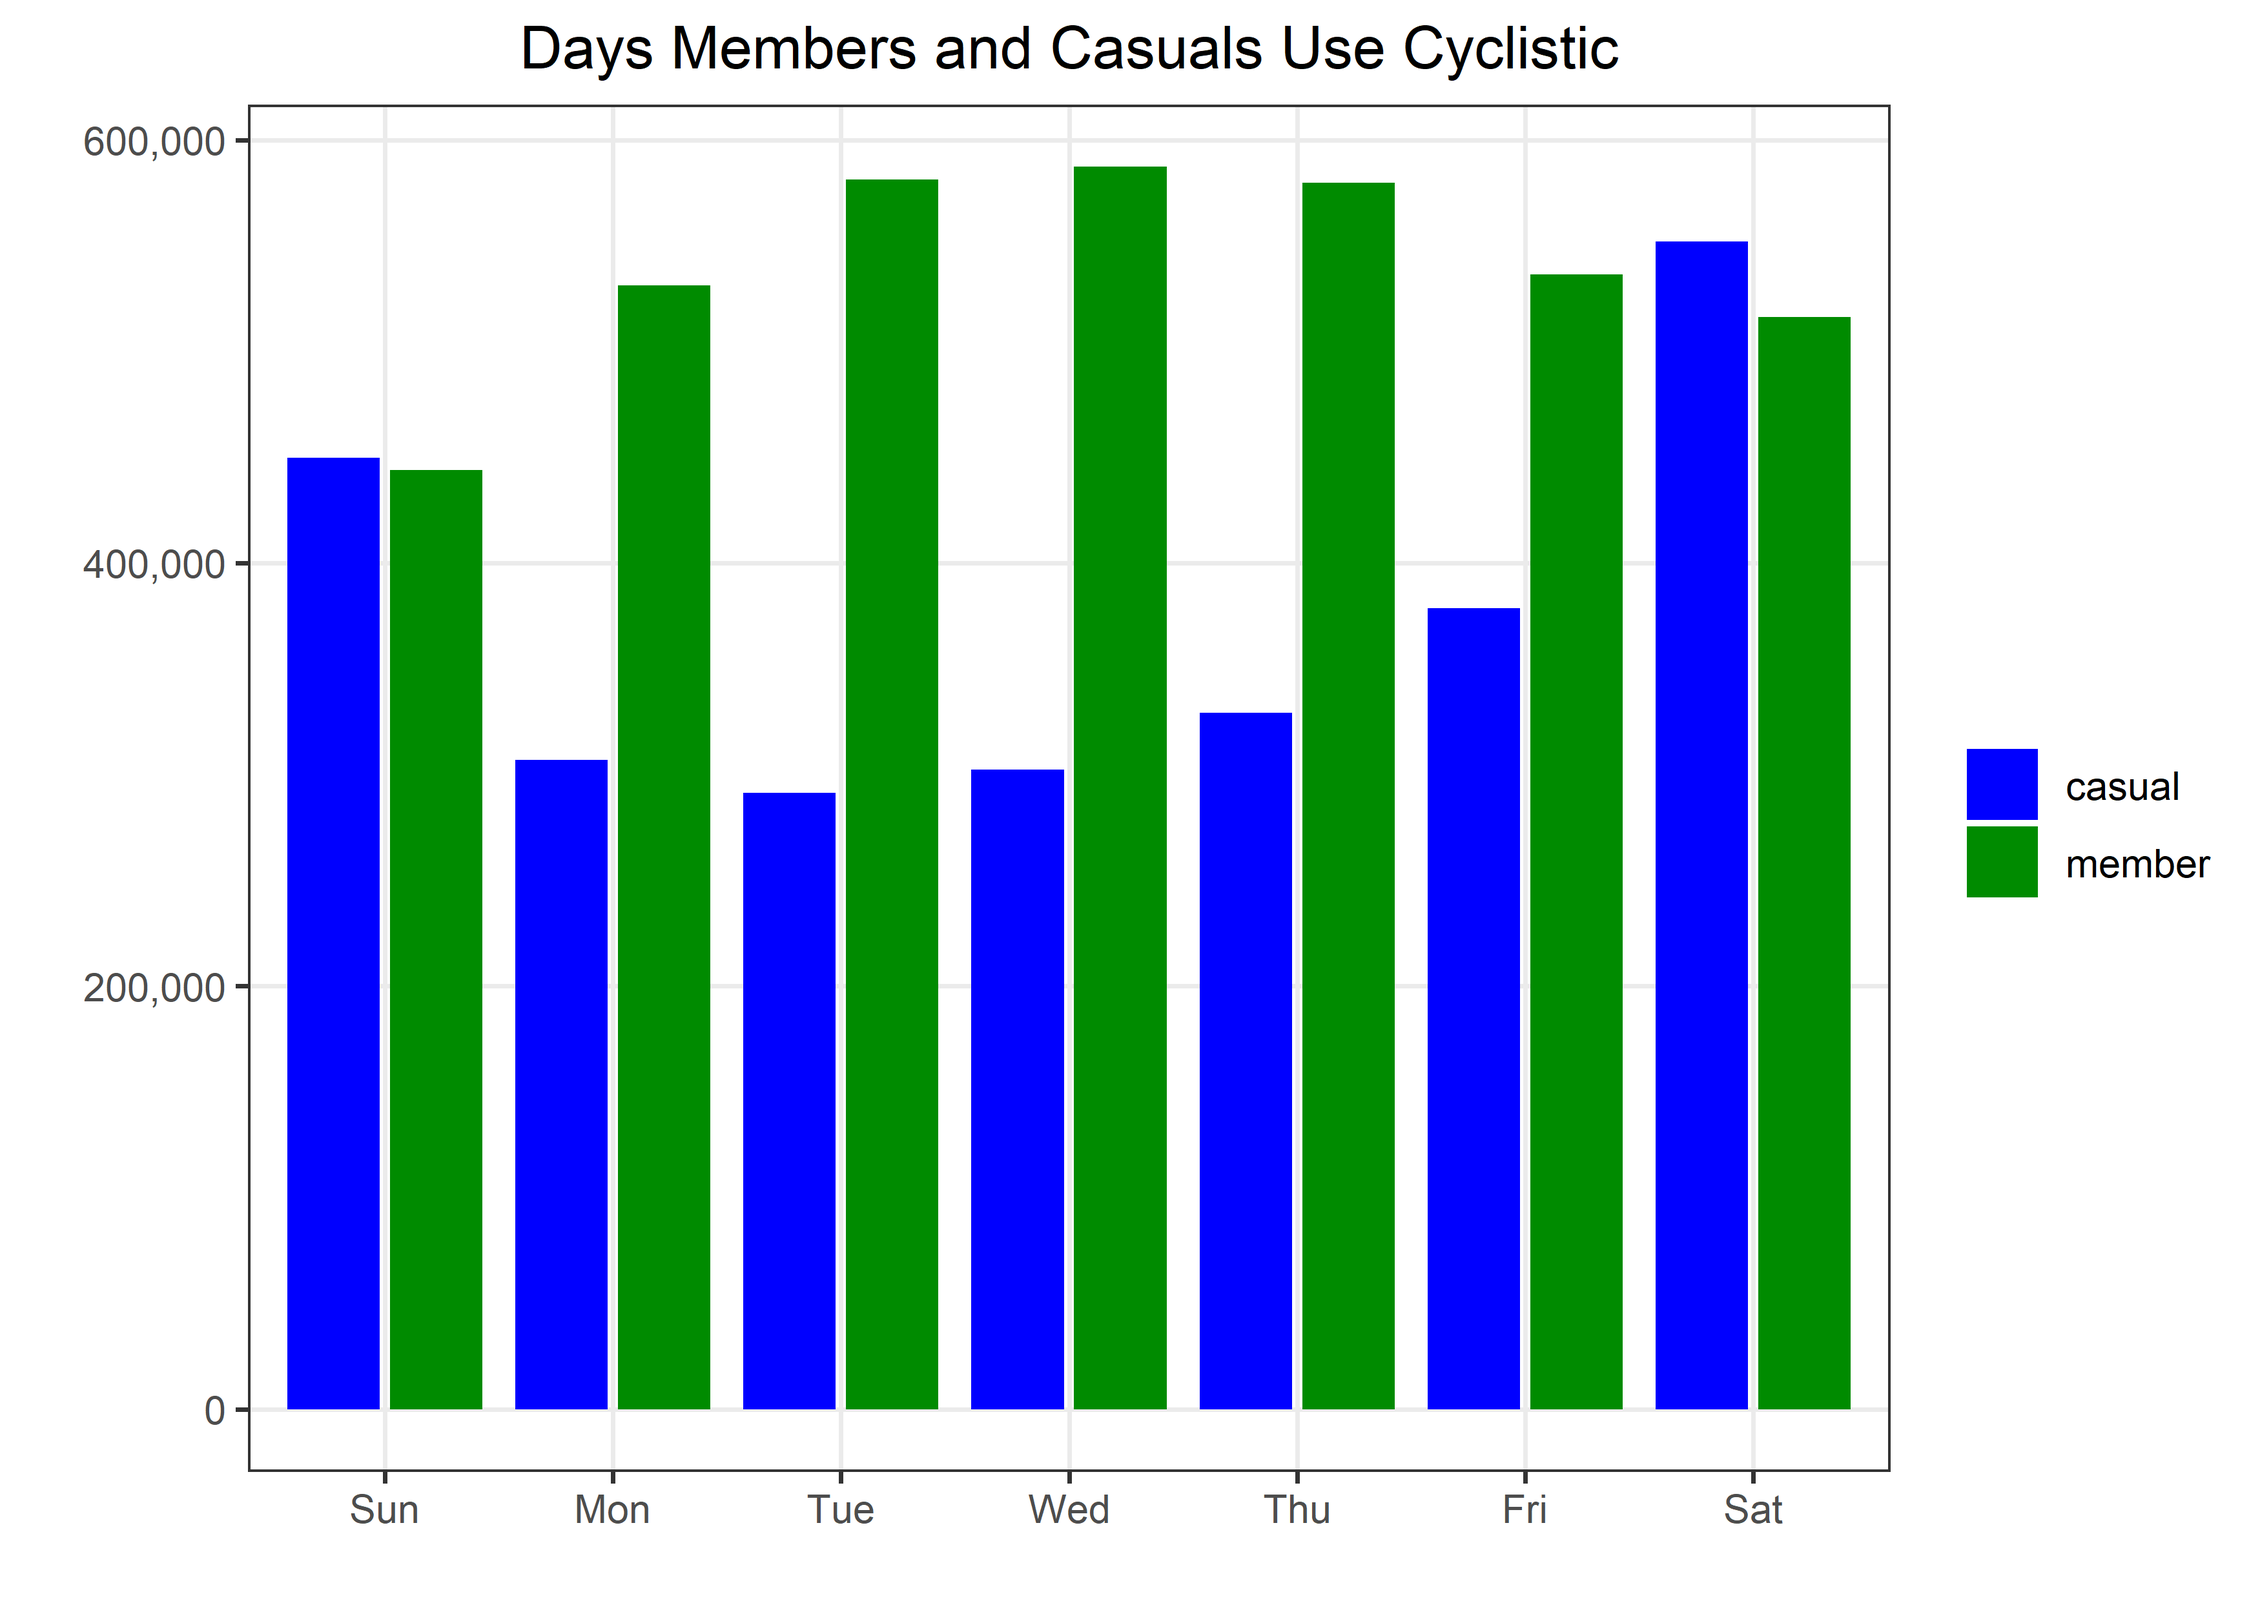
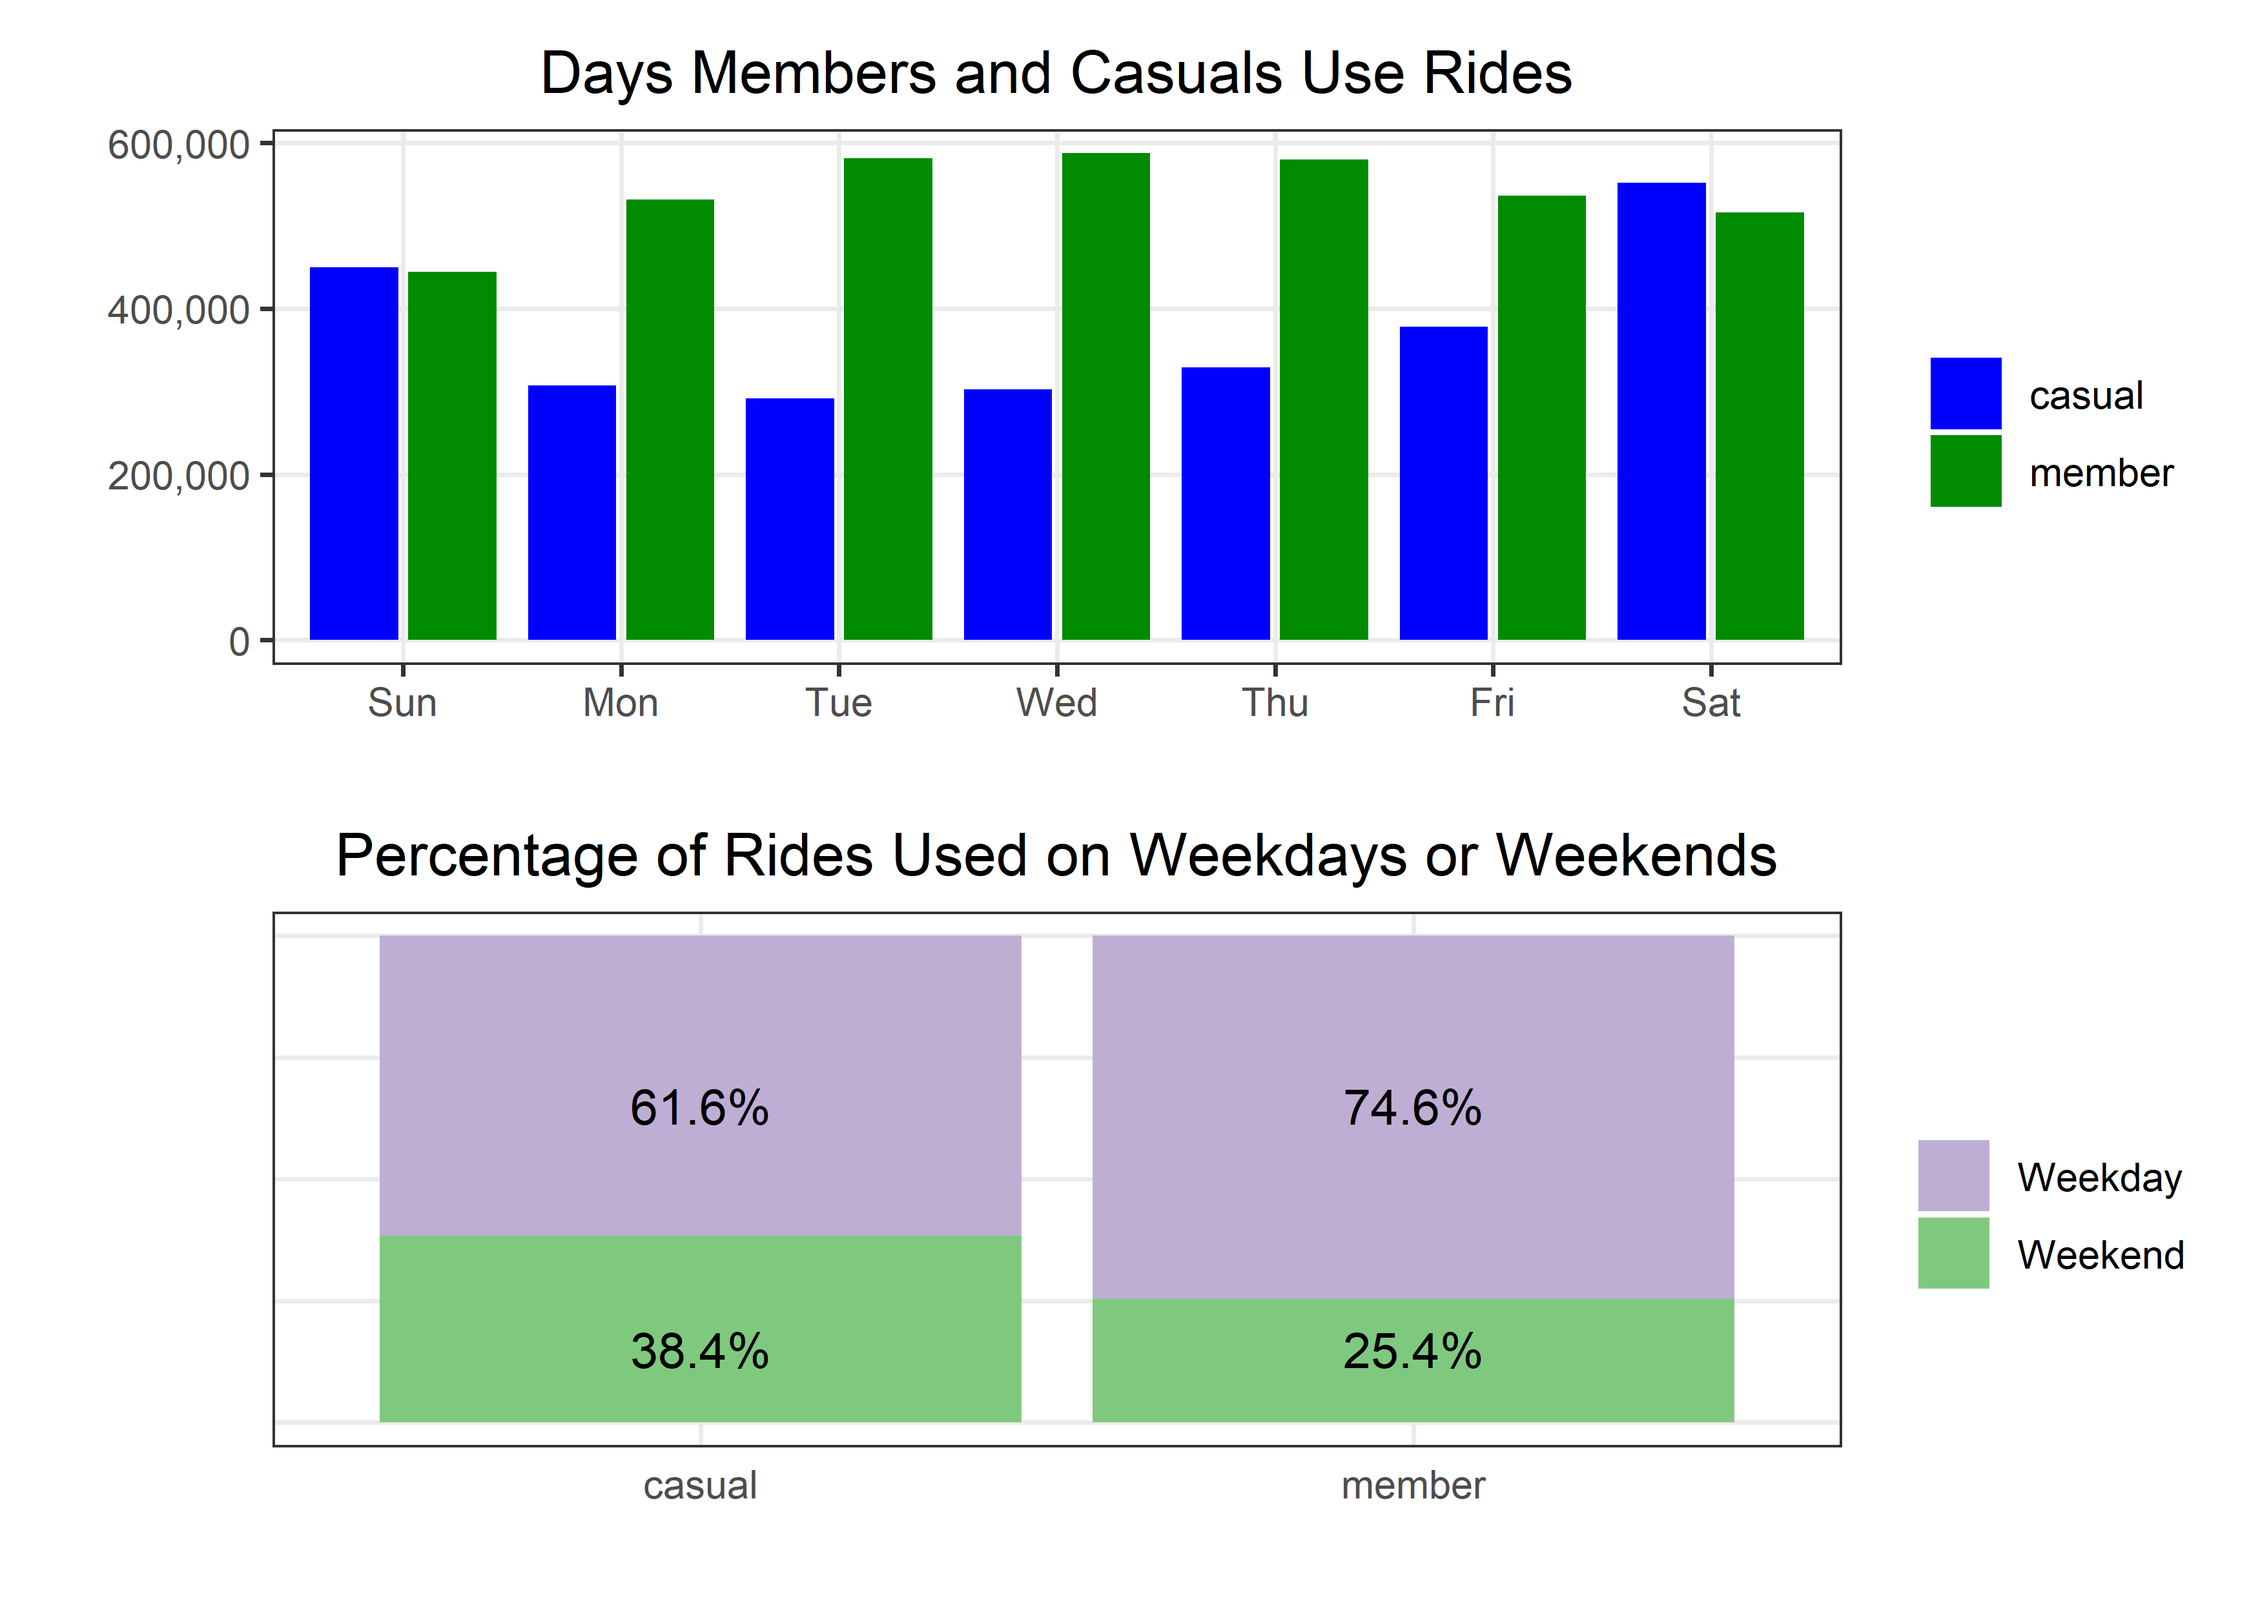
added multiple columns and improved plots. Added summary

diff --git a/Coursera Case Study/Bikes.md b/Coursera Case Study/Bikes.md
@@ -3,14 +3,34 @@ Coursera Case Study: Bikes
 Matthew
 2022-11-10
 
+-   <a href="#google-analytics-case-study-cyclistic"
+    id="toc-google-analytics-case-study-cyclistic">Google Analytics Case
+    Study: Cyclistic</a>
 -   <a href="#data-validation" id="toc-data-validation">Data Validation</a>
--   <a href="#eda" id="toc-eda">EDA</a>
+-   <a href="#exploratory-data-analysis"
+    id="toc-exploratory-data-analysis">Exploratory Data Analysis</a>
     -   <a href="#casuals-vs-members" id="toc-casuals-vs-members">Casuals vs
         Members</a>
+        -   <a href="#ride-duration-distributions"
+            id="toc-ride-duration-distributions">Ride Duration Distributions</a>
+        -   <a href="#weekdays-vs-weekends" id="toc-weekdays-vs-weekends">Weekdays
+            vs Weekends</a>
+        -   <a href="#type-of-bikes-used" id="toc-type-of-bikes-used">Type of Bikes
+            Used</a>
+        -   <a href="#popular-start-stations"
+            id="toc-popular-start-stations">Popular Start Stations</a>
+
+# Google Analytics Case Study: Cyclistic
+
+The purpose of this case study is the dive into the data and find the
+differences between members and casuals, with the hopes of converting
+casuals to members. Members are individuals that by an annual
+subscription service, while casuals are individuals that buy single ride
+passes.
 
 Multiple data sets (13) were downloaded from a link provided by Coursera
-and then was merged into one csv, which was subsequently read into using
-the code chunk below. The first chunk uses a for-loop to iterate the
+and then was merged into one csv, which was subsequently read using the
+code chunk below. The first chunk uses a for-loop to iterate the
 *read_csv* (read data files) and *rbind* (combine data rowwise)
 functions till all data files are read; which is then saved as a csv of
 its own. Now the csv can be read only once using the following code
@@ -42,17 +62,17 @@ bikes <- read_csv("D:/Downloads/Case Study/Full Data/bikes.csv")
     ## i Use `spec()` to retrieve the full column specification for this data.
     ## i Specify the column types or set `show_col_types = FALSE` to quiet this message.
 
-``` r
-s_bikes <- bikes %>% sample_n(500000)  # sample data set only for the purpose of quicker computations during analysis
-```
-
 Create columns that are the *length* of bike ride (in seconds) and
 *day_of_week* (1 = Sunday, 7 = Saturday).
 
 ``` r
-bikes$length <- difftime(bikes$ended_at, bikes$started_at)
+bikes$length <- difftime(bikes$ended_at, bikes$started_at, unit = "mins")
 bikes$day_of_week <- wday(bikes$started_at)
 bikes$day_label <- wday(bikes$started_at, label = TRUE)
+```
+
+``` r
+s_bikes <- bikes %>% sample_n(500000)  # sample data set only for the purpose of quicker computations during analysis
 ```
 
 # Data Validation
@@ -95,9 +115,10 @@ bikes %>%
 
 ``` r
 bikes$length <- abs(bikes$length)
+s_bikes$length <- abs(s_bikes$length)
 ```
 
-# EDA
+# Exploratory Data Analysis
 
 ``` r
 skimr::skim_without_charts(bikes)
@@ -134,9 +155,9 @@ Data summary
 
 **Variable type: difftime**
 
-| skim_variable | n_missing | complete_rate | min    | max          | median   | n_unique |
-|:--------------|----------:|--------------:|:-------|:-------------|:---------|---------:|
-| length        |         0 |             1 | 0 secs | 2483235 secs | 621 secs |    23350 |
+| skim_variable | n_missing | complete_rate | min    | max           | median     | n_unique |
+|:--------------|----------:|--------------:|:-------|:--------------|:-----------|---------:|
+| length        |         0 |             1 | 0 mins | 41387.25 mins | 10.35 mins |    23350 |
 
 **Variable type: factor**
 
@@ -161,73 +182,89 @@ Data summary
 | started_at    |         0 |             1 | 2021-10-01 00:00:09 | 2022-10-31 23:59:33 | 2022-06-18 23:50:58 |  5349251 |
 | ended_at      |         0 |             1 | 2021-10-01 00:03:11 | 2022-11-07 04:53:58 | 2022-06-19 00:17:08 |  5359703 |
 
-The task of this case study is to identify the difference between casual
-riders and members, with the goal of converting casuals to members.
-Casual riders are individuals that purchase single rides or full day
-passes, while members are individuals that purchase an annual
-subscription.
-
 ## Casuals vs Members
 
-There are more than 1 million more members than casuals.
+**Summary**
+
+-   There are *3.77* million rides by members and *2.61* million rides
+    by casuals, accounting for *59.1%* and *40.9%* of the data,
+    respectively.
+-   Members and casuals have approximately equal duration distributions,
+    with casuals having a slightly longer rides.
+-   Members tend to use rides during the weekday while casuals tend to
+    use rides during the weekend.
+-   Casuals disproportionately prefer specific bike stations.
 
 ``` r
 bikes %>% 
-  count(member_casual, sort = TRUE)
+  count(member_casual, sort = TRUE) %>% 
+  mutate(percent = n/sum(n)*100)
 ```
 
-    ## # A tibble: 2 x 2
-    ##   member_casual       n
-    ##   <chr>           <int>
-    ## 1 member        3776645
-    ## 2 casual        2610275
+    ## # A tibble: 2 x 3
+    ##   member_casual       n percent
+    ##   <chr>           <int>   <dbl>
+    ## 1 member        3776645    59.1
+    ## 2 casual        2610275    40.9
 
-Both members and casuals have the same distribution in their ridership
-duration.
+### Ride Duration Distributions
 
 ``` r
 (bikes %>% 
-  ggplot(aes(as.numeric(length/60))) + geom_histogram() + scale_x_log10(labels = comma_format()) +
-  facet_wrap(~member_casual) +
-  labs(y = "", x = "")) /
+  ggplot(aes(as.numeric(length), member_casual, fill = member_casual)) + 
+  geom_boxplot() +
+  scale_x_log10(label = comma_format()) + labs(y = "", x = "", fill = "") + scale_fill_manual(values = c("blue", "green4")))/
 (bikes %>% 
-  ggplot(aes(as.numeric(length/60))) + geom_density() + scale_x_log10(labels = comma_format()) +
-  facet_wrap(~member_casual) +
-  labs(y = "", x = "")) +
-  plot_annotation(title = "Duration Distribution of Rides")
-```
-
-    ## `stat_bin()` using `bins = 30`. Pick better value with `binwidth`.
-
-![](Bikes_files/figure-gfm/unnamed-chunk-8-1.png)<!-- -->
-
-``` r
-bikes %>% 
-  ggplot(aes(as.numeric(length/60), member_casual)) + geom_boxplot() +
-  scale_x_log10()
+   ggplot(aes(as.numeric(length), fill = member_casual)) + 
+   geom_density(alpha = 0.5) + theme(legend.position = "none") +
+   scale_x_log10(label = comma_format()) + labs(y = "", x = "") + scale_fill_manual(values = c("blue", "green4"))) +
+  plot_annotation(title = "Ride Duration Distributions") + plot_layout(guides = "collect")
 ```
 
 ![](Bikes_files/figure-gfm/unnamed-chunk-9-1.png)<!-- -->
 
+### Weekdays vs Weekends
+
+Members and casuals appear to use rides for different reasons.
+
+-   Members tend to use rides on weekdays, which implies its used to
+    commute to and from work; while casuals tend to use rides on the
+    weekend, which implies that the main purpose of use is leisure.
+
 ``` r
-bikes %>% 
+(bikes %>% 
   ggplot(aes(fct_reorder(day_label, day_of_week), fill = member_casual)) + 
   geom_bar(position = position_dodge2()) + 
   scale_fill_manual(values = c("blue", "green4")) +
   scale_y_continuous(labels = comma_format()) +
   labs(y = "", x = "", 
-       title = "Days Members and Casuals Use Cyclistic",
-       fill = "")
+       title = "Days Members and Casuals Use Rides",
+       fill = "")) /
+bikes %>% 
+  mutate(wend = ifelse(day_label %in% c("Sat", "Sun"), "Weekend", "Weekday")) %>% 
+  group_by(member_casual) %>% 
+  count(wend, sort = TRUE) %>% 
+  mutate(percent = n/sum(n)) %>% 
+  ggplot(aes(x = member_casual, y = percent, fill = wend)) + 
+  geom_bar(position="fill", stat = "identity") +
+  geom_text(aes(y = ifelse(percent > 0.50, 0.65, 0.15), label = paste0(round(percent, 3)*100,"%"))) +
+  scale_fill_brewer(palette = "Accent", direction = -1) + 
+  theme(axis.ticks = element_blank(), axis.text.y = element_blank()) +
+  scale_y_continuous(label = percent_format()) +
+  labs(y = "", x = "", fill = "", title = "Percentage of Rides Used on Weekdays or Weekends")
 ```
 
 ![](Bikes_files/figure-gfm/unnamed-chunk-10-1.png)<!-- -->
+
+### Type of Bikes Used
 
 ``` r
 bikes %>% 
   group_by(member_casual) %>% 
   count(rideable_type, sort = TRUE) %>% 
   mutate(total = sum(n), pct = n/total) %>% 
-  ggplot(aes(pct, member_casual, fill = rideable_type)) + geom_col(position = position_dodge2()) +
+  ggplot(aes(pct, member_casual, fill = rideable_type)) + 
+  geom_col(position = position_dodge2()) +
   scale_x_continuous(label = percent_format()) + 
   geom_text(aes(label = paste0(round(pct, 3)*100, "%")), position = position_dodge2(0.9), hjust = 1.1) +
   labs(title = "Proportion of Bikes Used by Membership", y = "", x = "", fill = "") +
@@ -236,17 +273,33 @@ bikes %>%
 
 ![](Bikes_files/figure-gfm/unnamed-chunk-11-1.png)<!-- -->
 
+### Popular Start Stations
+
 ``` r
-bikes %>% 
+(bikes %>% 
   filter(!is.na(start_station_name)) %>% 
   group_by(member_casual) %>% 
   count(start_station_name, sort = TRUE) %>% 
   top_n(5) %>% 
-  ggplot(aes(n, fct_reorder(start_station_name, n), fill = member_casual)) + geom_col() +
-  labs(y = "", x = "", fill = "", ) + geom_text(aes(label = n), color = "white", hjust = 1.2) +
-  scale_fill_manual(values = c("blue", "green4")) + theme(legend.position = "bottom")
+  ggplot(aes(n, fct_reorder(start_station_name, n), fill = member_casual)) + 
+  geom_col() +
+  geom_text(aes(label = n), color = "white", fontface = "bold", hjust = 1.2) +
+  labs(y = "", x = "", fill = "", title = "Start Stations") + theme(plot.title = element_text(hjust = 0)) +
+  scale_fill_manual(values = c("blue", "green4"))) /
+bikes %>% 
+  filter(!is.na(end_station_name)) %>% 
+  group_by(member_casual) %>% 
+  count(end_station_name, sort = TRUE) %>% 
+  top_n(5) %>% 
+  ggplot(aes(n, fct_reorder(end_station_name, n), fill = member_casual)) + 
+  geom_col() +
+  geom_text(aes(label = n), color = "white", fontface = "bold", hjust = 1.2) +
+  labs(y = "", x = "", fill = "", title = "End Stations") +
+  scale_fill_manual(values = c("blue", "green4")) + theme(plot.title = element_text(hjust = 0)) +
+  plot_layout(guides = "collect") + plot_annotation(title = "Top 10 Stations")
 ```
 
+    ## Selecting by n
     ## Selecting by n
 
 ![](Bikes_files/figure-gfm/unnamed-chunk-12-1.png)<!-- -->
